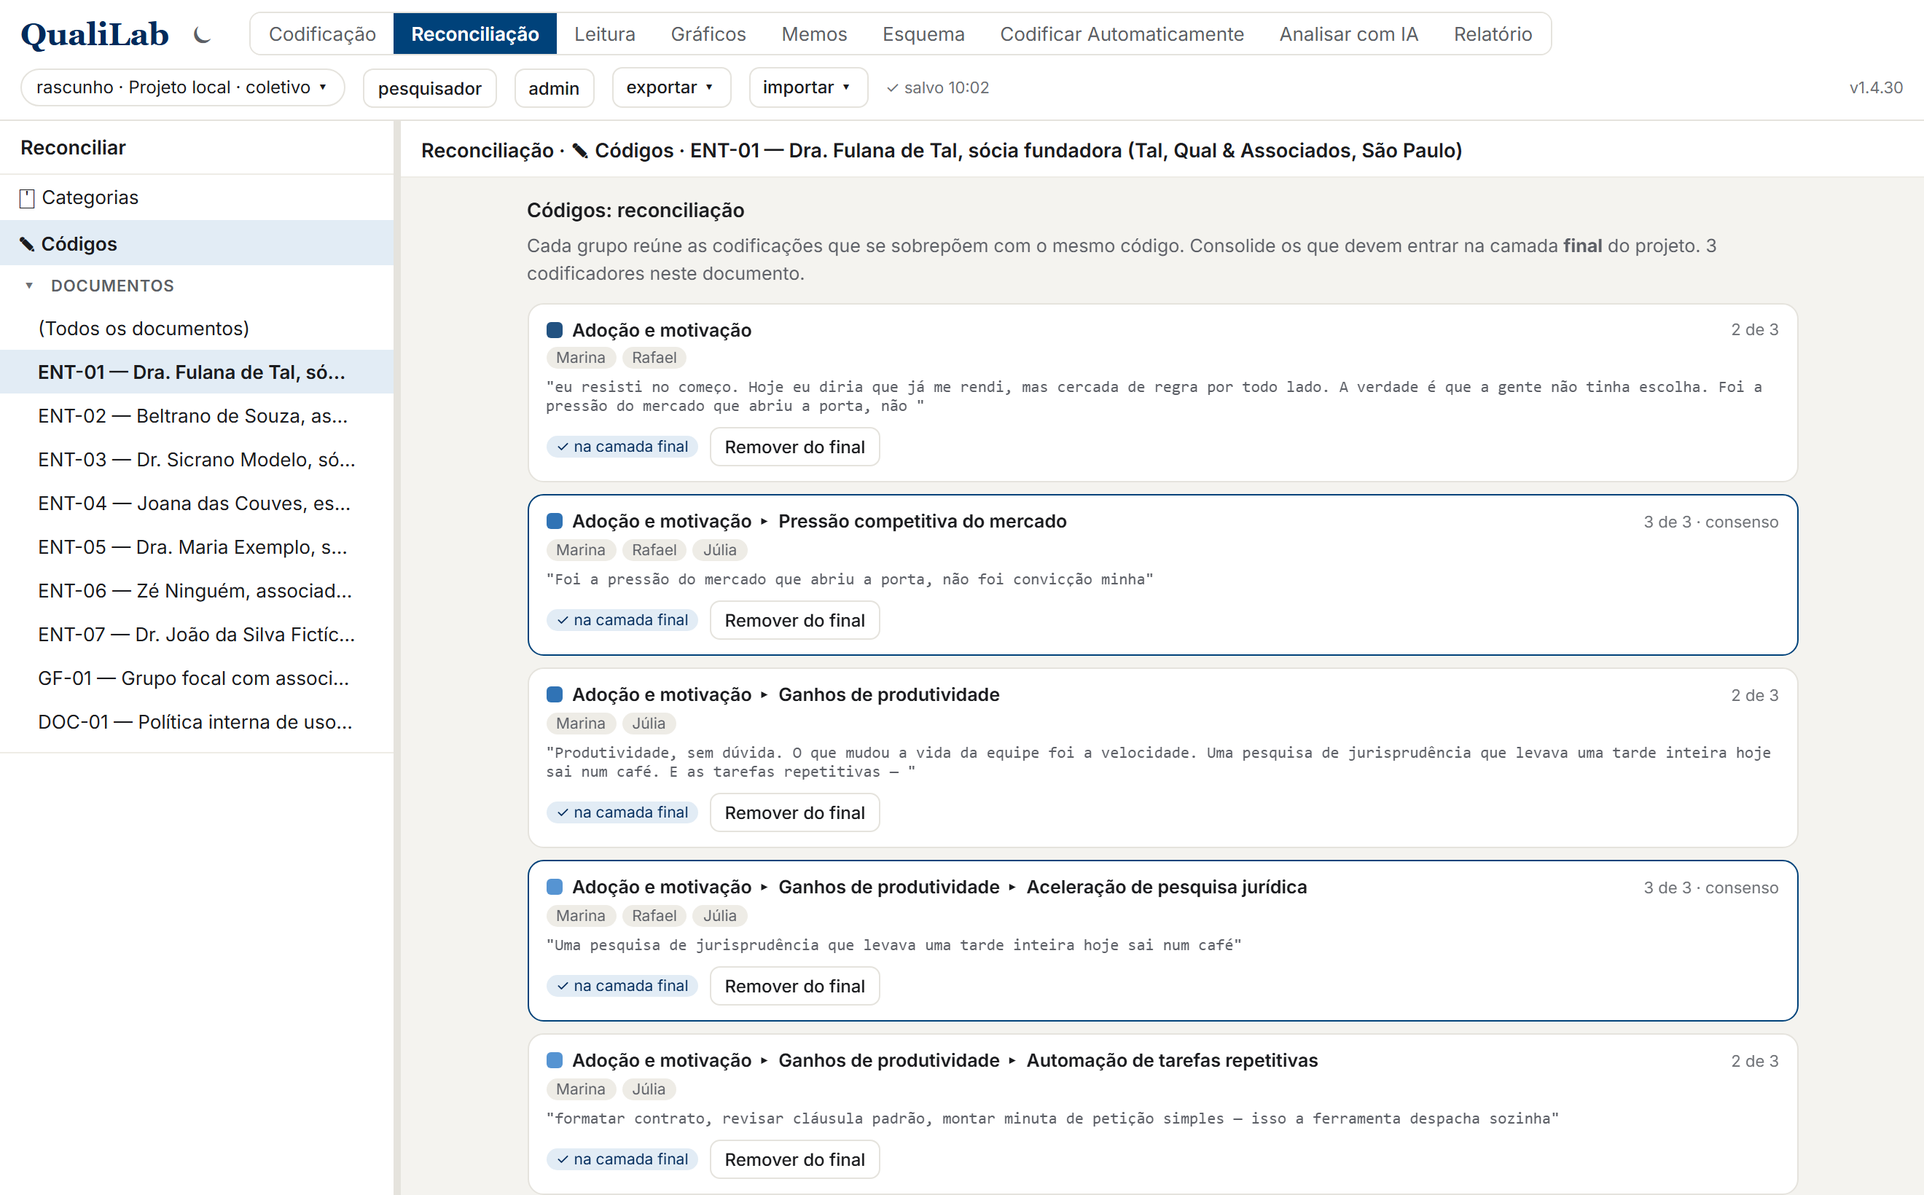
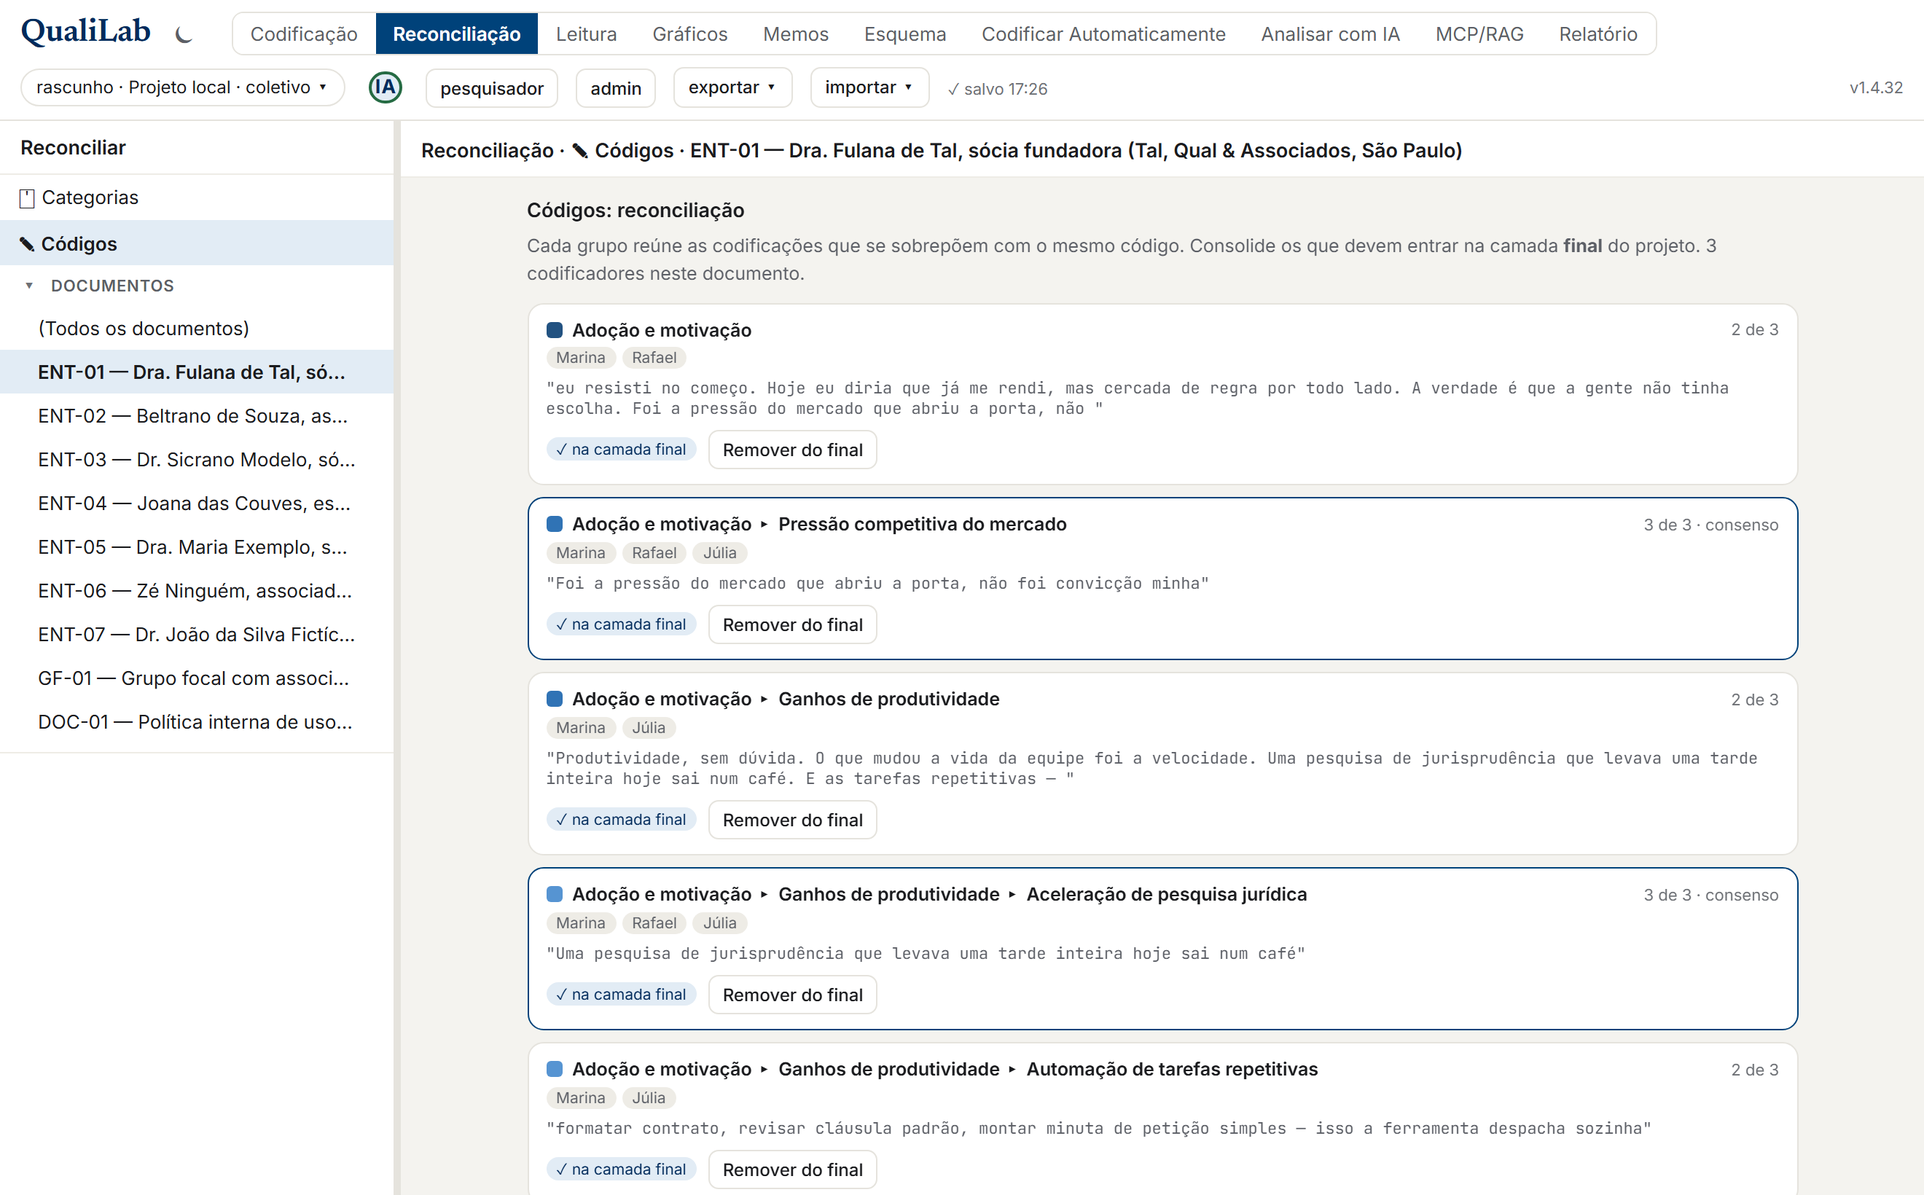
manual: as capturas da 1.4.32, e o caminho que nao cobra por token
Copiado identico pelo SYNC_TEXT, como sempre. Chega ao pesquisador do Pages:

 - as 22 CAPTURAS regeradas na 1.4.32 (as 20 antigas eram da v1.4.30 e nenhuma mostrava o selo de
   IA nem a aba MCP/RAG, que o manual ja descrevia), mais duas novas: a pergunta de opt-in de IA
   que todo projeto novo faz, e a tela MCP/RAG com a censura chegando em blocos pretos;
 - uma secao nova no 17.6 apontando o repositorio do complemento que leva o corpus ate o assistente
   que voce ja assina — para quem paga Claude ou ChatGPT, e o unico caminho que nao cobra por
   token, porque assinatura nao e credencial de API. Com a ressalva de que a mascara e fronteira
   real no chat e convencao num cliente agentico;
 - as correcoes editoriais da leva: "Primeiros 5 minutos" antes do capitulo 0, a escolha de
   armazenamento declarada ja no capitulo 2, um mapa no capitulo 17, e o aviso de que desligar a IA
   leva junto a aba Repetir Codificacao, que nao usa IA.

Duas imprecisoes que as capturas expuseram e que foram corrigidas: a pergunta de IA JA VEM com "Sem
IA" marcada (o texto dizia que nenhuma opcao vinha marcada), e trecho censurado aparece no leitor
como caixa de contorno, nao como caixa preta cheia.

O docs/index.html nao mudou: isto e documentacao, e o app ja estava na 1.4.32.

diff --git a/docs/MANUAL.md b/docs/MANUAL.md
@@ -14,7 +14,7 @@ Este manual ensina a *usar* o QualiLab passo a passo. Para a lista de recursos e
 
 ## Índice
 
-> ⚡ **Com pressa?** Vá direto aos [**Primeiros 5 minutos**](#primeiros-5-minutos) e volte depois para aprofundar.
+> ⚡ **Com pressa?** Os [**Primeiros 5 minutos**](#primeiros-5-minutos), logo abaixo, colocam você a codificar antes de qualquer leitura. Volte depois para aprofundar.
 
 0. [A ideia do QualiLab](#0-a-ideia-do-qualilab): para que serve, que problemas ataca, como planejar o uso
 1. [Conceitos fundamentais](#1-conceitos-fundamentais): o modelo mental antes de tudo
@@ -37,6 +37,20 @@ Este manual ensina a *usar* o QualiLab passo a passo. Para a lista de recursos e
 18. [Solução de problemas](#18-solução-de-problemas)
 19. [Atalhos de teclado](#19-atalhos-de-teclado)
 20. [Glossário](#20-glossário)
+
+---
+
+## Primeiros 5 minutos
+
+*Quer sentir a ferramenta na mão antes de mergulhar no método? Este é o caminho mais curto até o seu primeiro código, sem criar conta nem instalar nada.*
+
+1. Abra **[luizpf42.github.io/QualiLab](https://luizpf42.github.io/QualiLab)** e clique em **Só testar (rascunho)**: um projeto abre na hora, só neste navegador.
+2. Na aba **Codificação**, clique em **colar texto** e cole um trecho: uma fala de entrevista, um parágrafo de decisão, uma notícia (ou use **＋ enviar** para um `.txt`, `.pdf` ou `.docx`).
+3. **Selecione** com o mouse uma frase que lhe chame atenção, clique com o **botão direito** e escolha **+ Criar novo código**. Dê um nome ao tema (ex.: *acesso à justiça*) e clique em **Criar e aplicar**. Pronto, seu primeiro trecho codificado.
+4. Codifique mais alguns trechos: **repita o mesmo código** onde o tema volta, **crie outros** onde surgem temas novos.
+5. Abra a aba **Leitura**, vá em **Trechos** e clique no seu código: todos os trechos que você marcou aparecem juntos, lado a lado. É a sua análise começando a tomar forma.
+
+> Gostou? Antes de ir longe, decida **onde salvar** o trabalho (o rascunho é efêmero, [seção 16](#16-salvamento-backup-e-modos-de-armazenamento)) e leia a **[seção 0](#0-a-ideia-do-qualilab)** para tirar o máximo da ferramenta. O resto do manual aprofunda cada um destes passos.
 
 ---
 
@@ -171,21 +185,9 @@ Em **projeto individual**, tudo já vai direto para o gabarito. Em **projeto col
 
 ---
 
-## Primeiros 5 minutos
-
-*Quer sentir a ferramenta na mão antes de mergulhar no método? Este é o caminho mais curto até o seu primeiro código, sem criar conta nem instalar nada.*
-
-1. Abra **[luizpf42.github.io/QualiLab](https://luizpf42.github.io/QualiLab)** e clique em **Só testar (rascunho)**: um projeto abre na hora, só neste navegador.
-2. Na aba **Codificação**, clique em **colar texto** e cole um trecho: uma fala de entrevista, um parágrafo de decisão, uma notícia (ou use **＋ enviar** para um `.txt`, `.pdf` ou `.docx`).
-3. **Selecione** com o mouse uma frase que lhe chame atenção, clique com o **botão direito** e escolha **+ Criar novo código**. Dê um nome ao tema (ex.: *acesso à justiça*) e clique em **Criar e aplicar**. Pronto, seu primeiro trecho codificado.
-4. Codifique mais alguns trechos: **repita o mesmo código** onde o tema volta, **crie outros** onde surgem temas novos.
-5. Abra a aba **Leitura**, vá em **Trechos** e clique no seu código: todos os trechos que você marcou aparecem juntos, lado a lado. É a sua análise começando a tomar forma.
-
-> Gostou? Antes de ir longe, decida **onde salvar** o trabalho (o rascunho é efêmero, [seção 16](#16-salvamento-backup-e-modos-de-armazenamento)) e leia a **[seção 0](#0-a-ideia-do-qualilab)** para tirar o máximo da ferramenta. O resto do manual aprofunda cada um destes passos.
-
----
-
 ## 2. Começando
+
+> **Antes de carregar material, uma escolha que não se desfaz de graça: onde os seus dados vão ficar.** Em resumo: **arquivo** e **rascunho** ficam no seu dispositivo e não saem dele; a **nuvem** sincroniza entre pessoas e aparelhos, e por isso o conteúdo passa a ser legível por quem administra o banco. A matriz completa, por sensibilidade do material, está na [seção 16](#16-salvamento-backup-e-modos-de-armazenamento) — e a regra é **na dúvida, trate o material como mais sensível**.
 
 ### 2.1. Como acessar
 
@@ -336,7 +338,7 @@ Para **PDF digitalizado** (escaneado, só imagem), use o **◫ OCR** (no menu **
 > **Números de página.** Como o QualiLab guarda a correspondência trecho ↔ página do PDF, o número da página (**p. N**) do original acompanha o trecho na **Leitura**, no **Relatório**, nos exports **CSV/JSON** e nas anotações **W3C**, e o **▤ original** abre já na página do trecho selecionado.
 
 ### Importar muitos documentos de uma vez
-Uma planilha (`.csv`/`.xlsx`) vira **um documento por linha**. Veja [Importar e exportar](#15-importar-e-exportar).
+Uma planilha (`.csv`/`.xlsx`) vira **um documento por linha**, e uma **pasta do Zotero** vira um documento por referência com PDF anexado. O passo a passo dos dois está em [Importar e exportar](#15-importar-e-exportar).
 
 ---
 
@@ -383,7 +385,7 @@ Você **não precisa selecionar de novo**:
 **Ctrl+Z** desfaz a **última codificação aplicada** na sessão atual (até as últimas 50). Funciona só na aba Codificação e fora de campos de texto. Não há desfazer para outras ações (excluir documento, categoria, código etc.). Essas são definitivas.
 
 ### 5.5. Censura (mascarar trechos sensíveis)
-Um código pode ser marcado como **censura** (no [Esquema](#7-esquema), por um admin). Trechos com esse código aparecem como uma caixa preta e saem mascarados como `[trecho censurado]` nas **saídas de transparência** ([Relatório](#12-relatório)) e no que vai para a **IA** ([seção 17](#17-codificar-e-analisar-com-ia)), útil para publicar mantendo nomes/dados sensíveis ocultos.
+Um código pode ser marcado como **censura** (no [Esquema](#7-esquema), por um admin). Trechos com esse código ganham no leitor uma **caixa fechada** (a cor da censura é o preto, e a borda é o que a distingue de um grifo comum) e saem mascarados como `[trecho censurado]` nas **saídas de transparência** ([Relatório](#12-relatório)) e no que vai para a **IA** ([seção 17](#17-codificar-e-analisar-com-ia)), útil para publicar mantendo nomes/dados sensíveis ocultos.
 
 **Onde a censura NÃO se aplica, e por quê.** Os formatos de **trabalho e migração** (`.qualilab`, QDPX, QDC, CSV, JSON) saem **completos**, com os trechos censurados em claro. Não é esquecimento: é por esses arquivos que você leva o **seu próprio** material para o ATLAS.ti, o MAXQDA ou o NVivo e traz de volta, e mascarar ali destruiria o texto original de forma irreversível, além de fazer você **perder o próprio trabalho de censura** na migração. O menu **exportar ▾** avisa isso na hora, em âmbar, quando o projeto usa código de censura. Para material que sai da equipe, use a aba **Relatório**.
 
@@ -532,7 +534,7 @@ Ao editar um código, o admin pode:
 
 ![Reconciliação, aba Códigos, documento ENT-01: cada grupo reúne as codificações que se sobrepõem num mesmo código (o caminho do código, quem codificou e o trecho). Aqui já estão todas "na camada final", com a opção de removê-las; quando ainda não estão, aparece "Consolidar no final".](manual-img/14-reconciliacao.png)
 
-*Só em projeto coletivo.* É onde a equipe consolida o **gabarito** a partir do trabalho individual de cada pesquisador. A coluna da esquerda escolhe entre **Categorias** e **Códigos**, e navega por documento, incluindo a opção **(Todos os documentos)**, que reconcilia o projeto inteiro de uma vez.
+*Só em projeto coletivo — se o seu é individual, pule para a [seção 9](#9-leitura).* É onde a equipe consolida o **gabarito** a partir do trabalho individual de cada pesquisador. A coluna da esquerda escolhe entre **Categorias** e **Códigos**, e navega por documento, incluindo a opção **(Todos os documentos)**, que reconcilia o projeto inteiro de uma vez.
 
 **Categorias.** Para cada documento e categoria, você vê o **Gabarito** (que o admin define) e, abaixo, a resposta de cada pesquisador com **✓** (igual ao gabarito) ou **✗** (diferente). No modo (Todos os documentos), escolhe-se uma categoria e ela é consolidada documento a documento.
 
@@ -953,6 +955,20 @@ O que **não** funciona sem rede é **ler** o que ainda não foi carregado: abri
 
 A IA do QualiLab não "codifica sozinha" nem escreve no seu projeto sem permissão. Ela aparece em três telas: *Codificar Automaticamente* (assistentes que **propõem** mudanças ao seu projeto, você revisa item a item), *Analisar com IA* (leitura e interpretação de um material que você recorta) e *MCP/RAG* (a IA busca o material sozinha; veja [17.6](#176-mcprag-a-ia-pede-o-material-em-vez-de-receber)). Em todas, o resultado é uma **proposta** ou um **texto** que você revisa. Aplicar qualquer mudança é sempre um ato seu.
 
+É o capítulo mais longo do manual, então vale o mapa:
+
+| | |
+|---|---|
+| [17.1](#171-como-a-ia-funciona-aqui) | **como funciona aqui** — por onde a chamada vai, de quem é a chave, o prompt visível, os limites de tamanho e o custo |
+| [17.2](#172-codificar-automaticamente-cinco-assistentes-em-abas) | **Codificar Automaticamente** — os cinco assistentes, um por sub-seção (17.2.1 a 17.2.5) |
+| [17.3](#173-analisar-com-ia-leitura-assistida-do-material) | **Analisar com IA** — a conversa sobre o material que você recorta |
+| [17.4](#174-configurar-a-sua-chave-opcional) | **configurar a sua chave** |
+| [17.5](#175-para-onde-vão-os-seus-dados-provedores-e-configuração) | **para onde vão os seus dados** — os provedores, e o que confiar em cada um |
+| [17.6](#176-mcprag-a-ia-pede-o-material-em-vez-de-receber) | **MCP/RAG** — a IA pede o material em vez de receber |
+| [17.7](#177-desligar-a-ia-neste-projeto) | **desligar a IA** neste projeto |
+
+> **Se você não vai usar IA**, o único trecho que interessa é o [17.7](#177-desligar-a-ia-neste-projeto), que desliga os painéis e faz o Relatório declarar isso. O resto do manual não depende deste capítulo.
+
 ### 17.1 Como a IA funciona aqui
 
 - **Onde a chamada vai.** Com a **sua** chave (o caso normal, veja o item seguinte), o **navegador fala direto com o provedor** que você escolheu: o material **não passa por nenhum servidor do QualiLab**. Duas exceções, uma em cada ponta: o **Ollama local** vai direto para a **sua máquina** (nada sai dela); e um endpoint **Personalizado**/**Azure** que não libere chamadas de navegador (a regra de CORS é de quem serve a API) faz a chamada ser **refeita** por uma função no servidor deste projeto (Supabase Edge Function `ai-ask`) — que então enxerga o material daquele envio. O card de IA em **Minha conta** diz, para a **sua** configuração, por qual caminho ela vai. Para onde **cada provedor** manda o dado, e o que isso implica para material sensível, veja [17.5](#175-para-onde-vão-os-seus-dados-provedores-e-configuração).
@@ -1131,6 +1147,8 @@ Para constar, o que as políticas *dizem* hoje (e pode mudar): camadas **gratuit
 
 ### 17.6 MCP/RAG: a IA pede o material, em vez de receber
 
+![A tela MCP/RAG respondendo "o que aparece no lugar dos nomes?": no topo, a pílula âmbar "experimental" e a contagem de documentos e de ferramentas. Entre os turnos aparece cada chamada que a IA fez (get_project, list_documents, get_document_content) com os argumentos e o que cada uma devolveu; na resposta, o trecho lido vem com os nomes em blocos pretos, porque a censura é aplicada antes de o texto sair para o modelo.](manual-img/19-mcp-rag.png)
+
 > **Esta tela é experimental**, e o app diz isso nela. Ela funciona e não altera nada, mas é a superfície mais nova do QualiLab: o formato das respostas e o conjunto de ferramentas ainda podem mudar entre versões. Não a use como o único registro de uma análise — o que você quiser guardar, guarde em memo ou no relatório.
 
 Nas outras telas de IA **você monta o recorte** antes de perguntar: escolhe documentos, códigos, escopo, e a IA recebe aquilo pronto. Aqui é o contrário: você pergunta, e **a IA busca o material sozinha**, pedindo o que precisa por meio de um conjunto de ferramentas de leitura — ler um documento, buscar um termo, listar os trechos de um código, ver os memos. **Cada pedido aparece na tela**, com a ferramenta, os argumentos e um resumo do que voltou.
@@ -1147,11 +1165,25 @@ Isso muda o tipo de pergunta que cabe. Nas outras telas você pergunta sobre um 
 
 **Quando preferir as outras telas.** Se você já sabe qual material quer analisar, *Analisar com IA* é mais direto e mais barato. Esta tela ganha quando a pergunta é de **busca**: quando achar o material é parte do problema.
 
+#### Sem pagar por token: as mesmas ferramentas dentro do assistente que você já assina
+
+Esta tela cobra da **sua chave de API**, por token. Se você já paga uma assinatura do **Claude** (Pro/Max) ou do **ChatGPT**, existe um caminho que **não custa nada além dela**: em vez de o QualiLab falar com o modelo, o **assistente que você já usa** lê o seu corpus.
+
+A razão de isso existir é uma limitação que não é nossa: **assinatura não é credencial de API**. Pagar o Claude ou o ChatGPT não lhe dá uma chave que um outro programa possa usar — são cobranças separadas. Então, para quem já assina, o caminho barato é o inverso: não trazer o modelo até o QualiLab, e sim **levar o corpus até o assistente**.
+
+Quem faz isso é um complemento que você instala no seu assistente, distribuído em **[LuizPF42/QualiLab-plugin](https://github.com/LuizPF42/QualiLab-plugin)** — repositório próprio, com as instruções de instalação de cada cliente. Ele **não faz parte do QualiLab**: é um programa separado que lê os arquivos `.qualilab` que você exporta ([seção 15](#15-importar-e-exportar)). Você aponta uma **pasta**, e o assistente lista os projetos que estão nela.
+
+Ele oferece **as mesmas ferramentas desta tela** — literalmente o mesmo código —, com o mesmo vocabulário e as mesmas regras: **só leitura**, nada é alterado no seu arquivo, e a censura chega mascarada igual.
+
+> **Uma ressalva honesta, e ela é diferente conforme o cliente.** No **chat** do Claude, a máscara é fronteira real: o complemento é o único caminho até o seu corpus. Num cliente **agêntico** (que executa tarefas e mexe em arquivos), o assistente tem ferramentas de arquivo próprias, e o `.qualilab` guarda o texto **cru** — se ele abrir o arquivo por fora, a censura não o alcança. Ali ela é convenção respeitada, não tranca.
+
 ### 17.7 Desligar a IA neste projeto
 
 Nem toda pesquisa quer IA por perto, e há dois motivos bem diferentes para isso: a pesquisa que precisa **declarar** que não usou (para o comitê de ética, para o parecerista, para o leitor do artigo), e a coordenação que teme **codificação de modelo entrando como julgamento humano** — o que contamina concordância entre codificadores, saturação, tudo. O QualiLab atende os dois com uma chave só, mudando o **alcance**.
 
-**A pergunta vem na criação.** Todo projeto novo — na nuvem, em arquivo ou rascunho — pergunta se os recursos de IA ficam disponíveis. Nenhuma opção vem marcada, e **não responder é não ativar**. No cabeçalho, **entre a pílula do projeto e o seu nome**, um selo mostra sempre o estado da IA neste projeto — vermelho quando está desativada, verde quando está ativada. Clicar nele oferece trocar, com confirmação. Você também muda em **Projeto → Recursos de IA** (clique na pílula do projeto):
+![A pergunta que todo projeto novo faz: a janela "Novo rascunho", com o bloco "Recursos de IA", os dois botões (Sem IA, que já vem marcado, e Ativar IA) e, no rodapé, "Continuar sem IA" ao lado de "Continuar".](manual-img/18-ativar-ia.png)
+
+**A pergunta vem na criação.** Todo projeto novo — na nuvem, em arquivo ou rascunho — pergunta se os recursos de IA ficam disponíveis. A opção que **já vem marcada é "Sem IA"**: ativar exige trocar a escolha, e sair da janela sem responder **mantém desligado**. No cabeçalho, **entre a pílula do projeto e o seu nome**, um selo mostra sempre o estado da IA neste projeto — vermelho quando está desativada, verde quando está ativada. Clicar nele oferece trocar, com confirmação. Você também muda em **Projeto → Recursos de IA** (clique na pílula do projeto):
 
 | escolha | quem fica com as telas de IA |
 |---|---|
@@ -1161,7 +1193,7 @@ Nem toda pesquisa quer IA por perto, e há dois motivos bem diferentes para isso
 
 *Desativados* inclui você de propósito: é o que permite dizer à equipe "ninguém aqui usa, eu inclusive", e é o que impede reabrir a porta na pressa de um prazo.
 
-**O que some, e o que fica.** Somem as telas de IA do cabeçalho e a configuração que só serve a elas (o **Memo para a IA** e os **Prompts salvos**, na tela Memos). **Fica** o registro do que já aconteceu: as **conversas salvas** e a **memória do projeto** continuam onde estavam. Esconder o registro seria o oposto da transparência que a declaração promete — e é ele que o relatório conta.
+**O que some, e o que fica.** Somem as telas de IA do cabeçalho e a configuração que só serve a elas (o **Memo para a IA** e os **Prompts salvos**, na tela Memos). ⚠ **Some junto a aba [Repetir Codificação](#1725-repetir-codificação-sem-ia), que não usa IA nenhuma** — ela mora dentro da tela *Codificar Automaticamente*, e a tela sai inteira. É bom saber porque ela é a ferramenta que a [seção 5.5](#55-censura-mascarar-trechos-sensíveis) recomenda para fechar a censura (achar as outras ocorrências idênticas de um termo já censurado). Desligando a IA, esse trabalho volta a ser feito pelo [pesquisar +](#57-buscar-no-documento-e-no-projeto-inteiro), caso a caso. **Fica** o registro do que já aconteceu: as **conversas salvas** e a **memória do projeto** continuam onde estavam. Esconder o registro seria o oposto da transparência que a declaração promete — e é ele que o relatório conta.
 
 **A decisão acompanha o projeto.** Ela viaja dentro do `.qualilab`: salvar como arquivo, reabrir depois ou enviar para a nuvem preserva o que você escolheu. Importar material de um projeto sem IA para dentro de um projeto com IA ativa **não** muda a sua configuração (a decisão é do projeto que recebe, não do arquivo que chega), mas o resumo da importação avisa que aquele material vinha de um projeto assim. E conversas de IA guardadas num arquivo **não entram** num projeto que desativou a IA — o resumo diz quantas ficaram de fora, e por quê.
 
